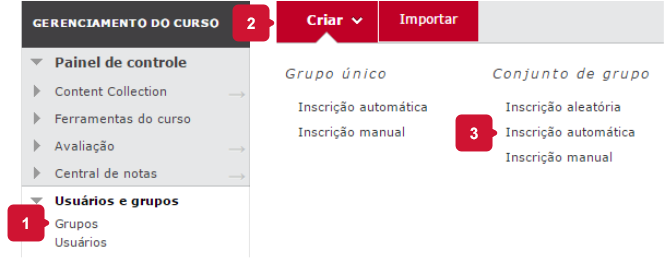
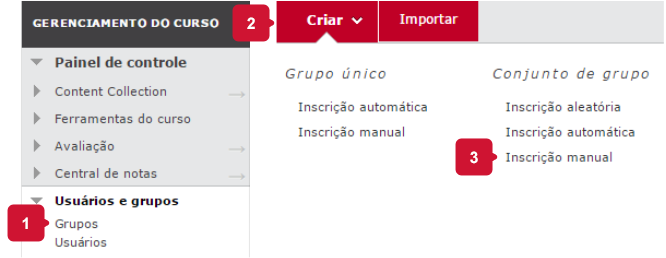
update grupo - blackboard

Changed region(s): [[0.6607, 0.4341, 0.7508, 0.6822]]

diff --git a/html/Blackboard/grupos/criar-alterar-grupos/index.html b/html/Blackboard/grupos/criar-alterar-grupos/index.html
@@ -446,7 +446,7 @@
                         <p>Escolha <strong>Inscrição automática</strong> para que os próprios alunos ingressem em um grupo.</p>
                         <p>Embora seja possível criar um único grupo, no exemplo será exibida a criação de um conjunto de grupos.</p>
                         <div class="imageContainer row">
-                            <img src="../../../img/Blackboard/grupos/criar-alterar-grupos/step3b.png" alt="" class="imgLeft">
+                            <img src="../../../img/Blackboard/grupos/criar-alterar-grupos/step3a.png" alt="" class="imgLeft">
                         </div>
                         <div class="margemParaImagem" style="margin-top:40px"></div>
                         <div class="imageContainer row">
